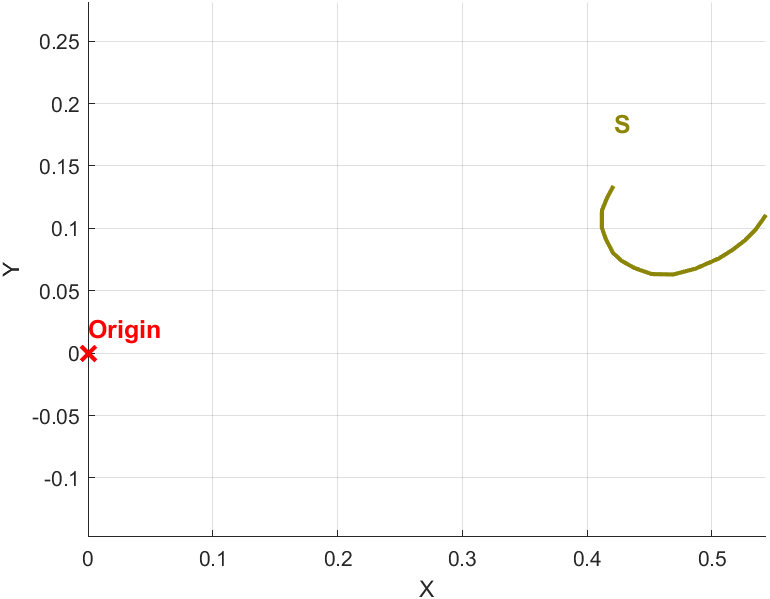
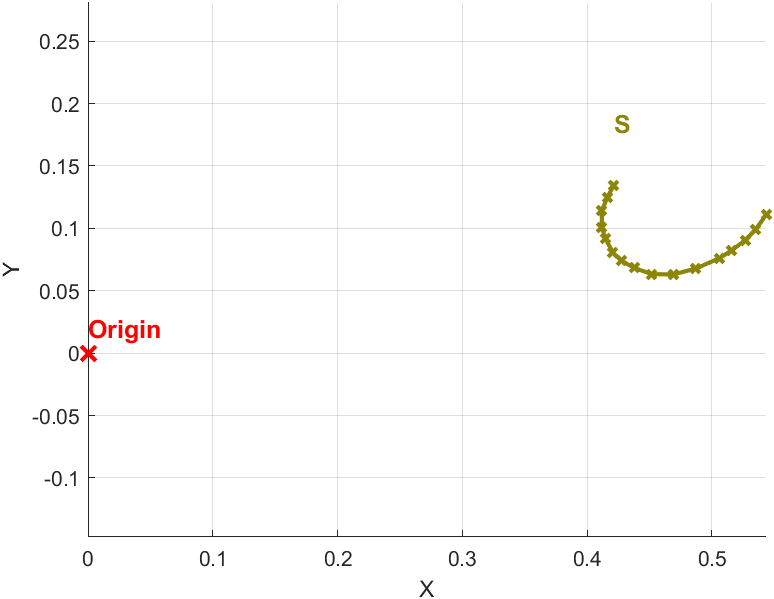
.

diff --git a/Code/2.5-2.6-Curve_S_and_Camera_Localization/S_coordinates.m b/Code/2.5-2.6-Curve_S_and_Camera_Localization/S_coordinates.m
@@ -31,12 +31,12 @@ S_points = S_points ./ S_points(3, :);
 S_points_world = rs * S_points;
 scaling = 1 - height / (2 * rs(:, 3)' * r3);
 S_points_world = S_points_world * scaling;
-S_coordinates_ = [rs(:, 1)' / norm(rs(:, 1)); rs(:, 2)' / norm(rs(:, 2))] * (S_points_world - origin);
+S_coordinates_ =  [rs(:, 1)' / norm(rs(:, 1)); rs(:, 2)' / norm(rs(:, 2))] * (S_points_world- origin);
 
 %Plot the coordinates
 S_color = "#8C8608";
 hold on;
-plot(S_coordinates_(1, :), S_coordinates_(2,:), 'Color', S_color, 'LineWidth', 2);
+plot(S_coordinates_(1, :), S_coordinates_(2,:), 'Color', S_color, 'Marker', 'x', 'LineWidth', 2);
 text(S_coordinates_(1, 1), S_coordinates_(2, 1) + 0.05, 'S', 'Color', S_color, 'FontSize', 12, 'FontWeight', 'bold');
 plot(0, 0, 'rx', 'MarkerSize', 10, 'LineWidth', 2);
 text(0, 0 + 0.02, 'Origin', 'Color', 'r', 'FontSize', 12, 'FontWeight', 'bold');
